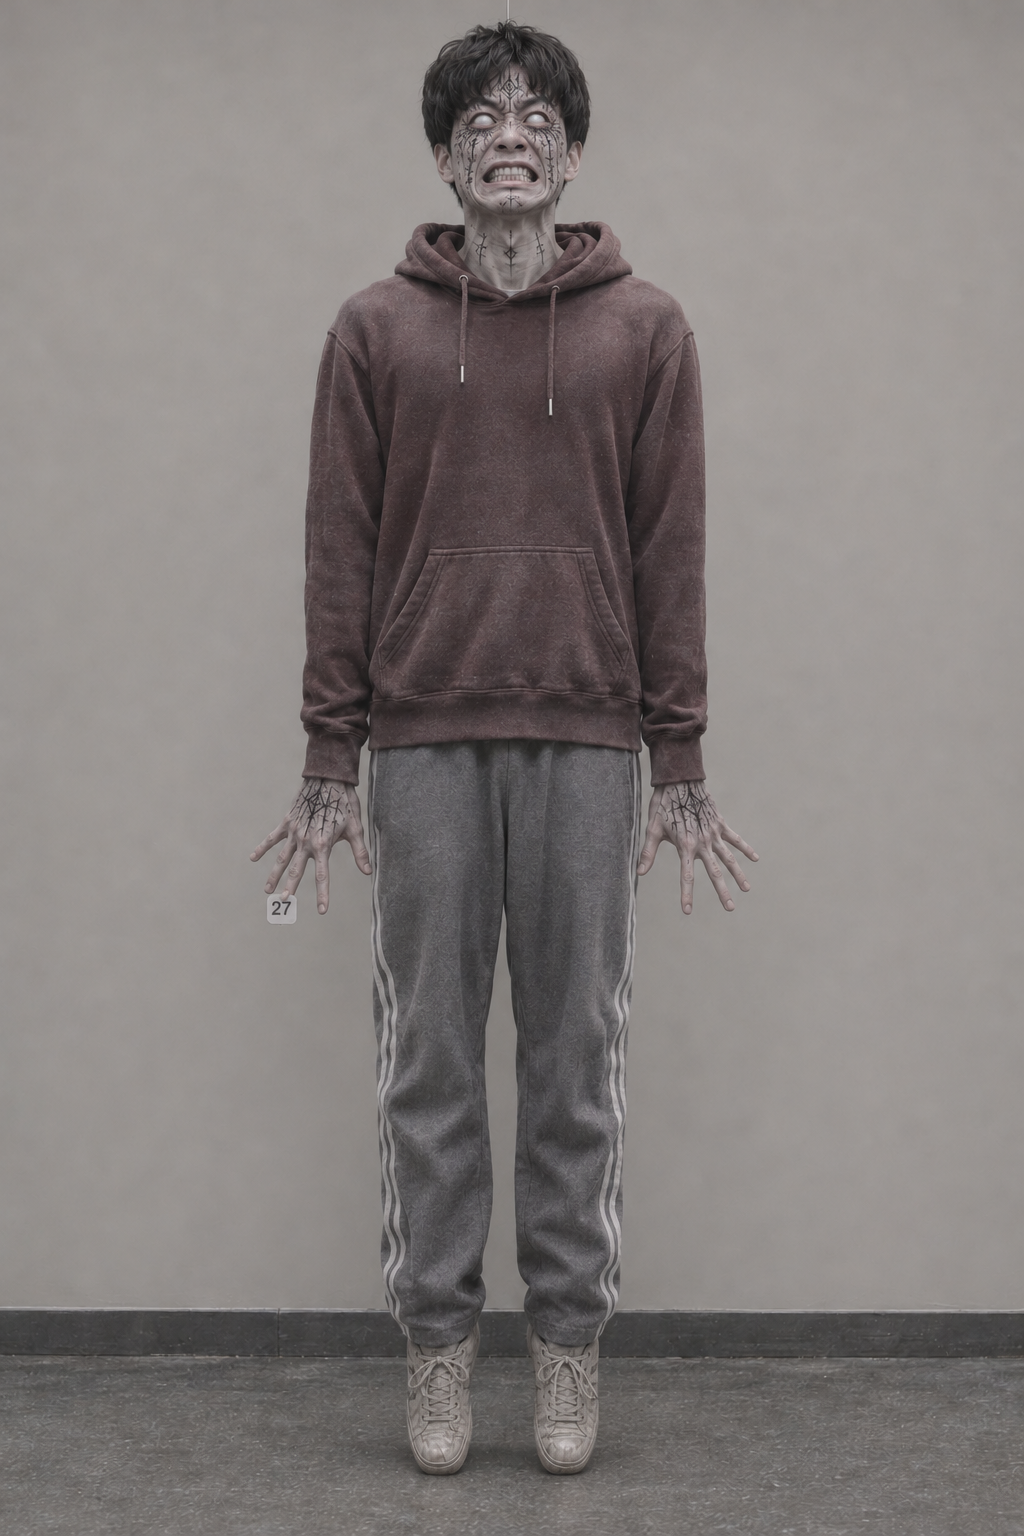
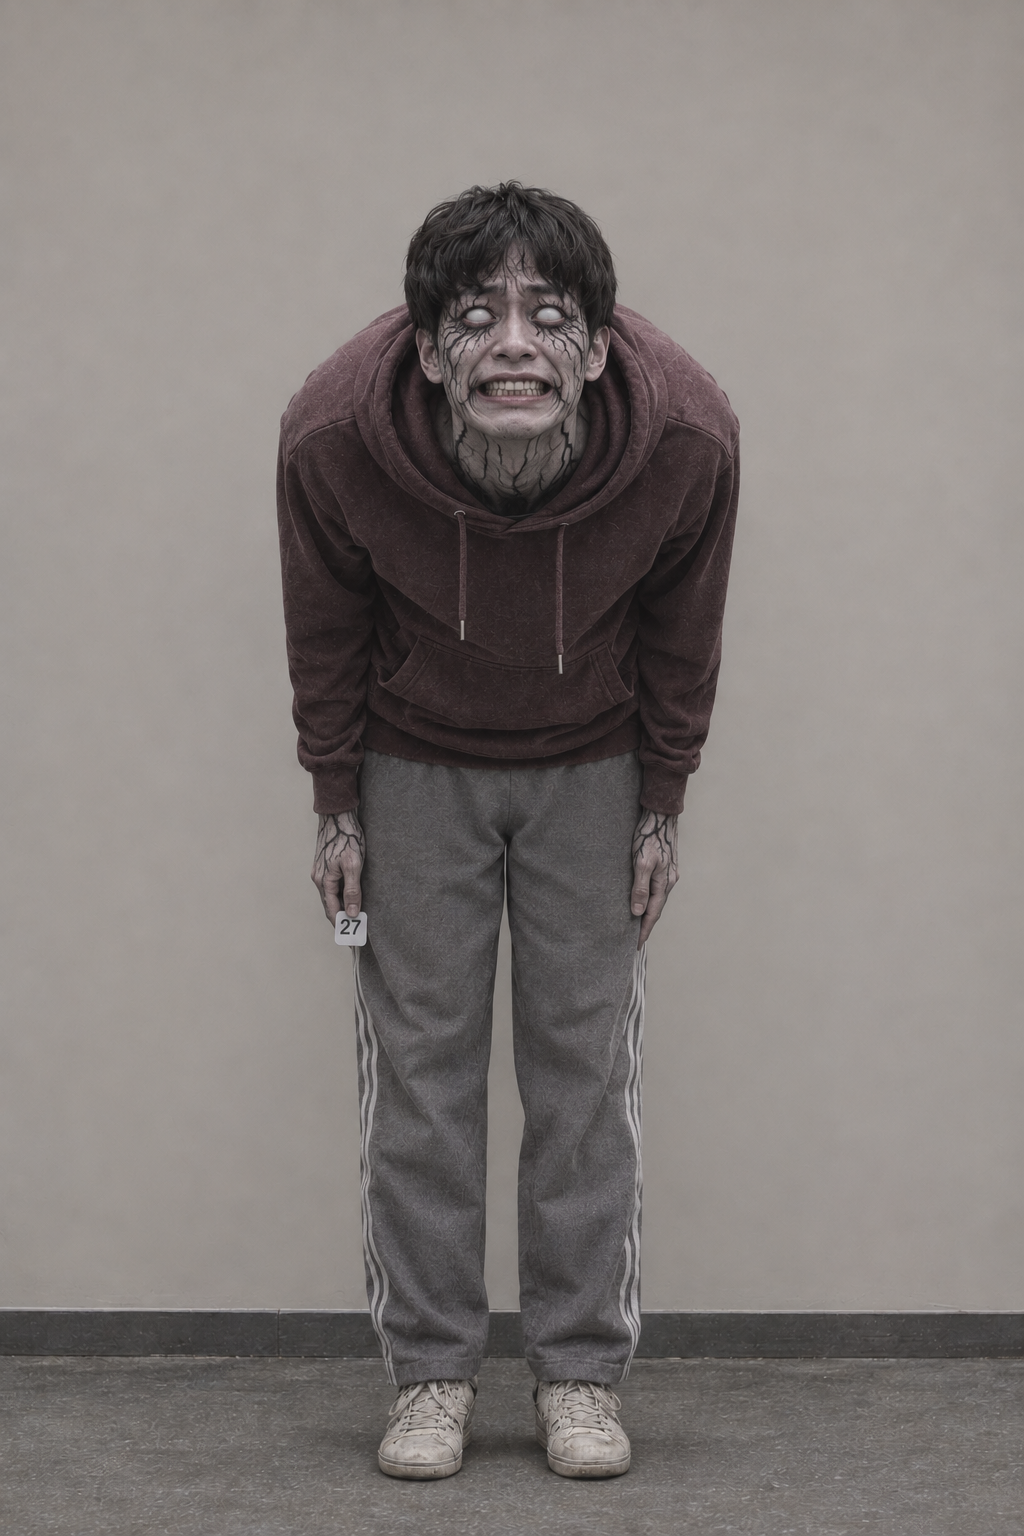
規格／影片素材：等號者幽靈版全身改用黑色血管與詭異姿態新定稿
- 角色設定_等號者_{左,中,右}_幽靈_v1.png 換成使用者選定的第四批：左 04、中 02、右 03
- 10-23 幽靈版基準改寫：臉與脖子布滿黑色血管；左後仰按牌尖叫、中直角鞠躬抬臉硬笑、右跪姿後折倒臉
- 白眼、無殘影、脖子正常的規則不變

Changed region(s): [[0.25, 0.0, 0.75, 0.9688]]

diff --git a/docs/10_製作規格/10-23_製作規格_影片素材設定.md b/docs/10_製作規格/10-23_製作規格_影片素材設定.md
@@ -143,7 +143,7 @@
 - **素材提示詞：**大廳塑膠等候椅上的三個年輕人（兩女一男，約十九到二十六歲），高矮胖瘦各不相同，穿的是自己平常的便服，像日常途中突然被帶進園區：左邊的女生是灰色針織開襟衫、白 T、淺色寬牛仔褲；中間的男生是暗紅帽 T、側邊白條紋的灰運動褲；右邊的女生是深藍大學 T、黑色寬褲。衣服乾淨但有一天下來的皺褶，色調低飽和。每人手裡都有一張塑膠號牌。第一人坐得最直；第二人縮肩、抿著嘴，嘴角被迫往兩側提起；第三人望著封住的出口，一手把號牌壓在膝上、一手扣住椅緣。異變只在頸部：衣領裡有一道細長的折角，頸影比肩膀多折一節，慢半拍才接回頭影。臉都沒有清楚五官（低垂、背光或模糊）。
 - **不要出現：**腐爛、傷口或血跡；三人長得一樣或穿同一套衣服；制服、戲服或破舊二手衣
 - **內部視覺基準：**[三人合照](../../assets/07_視聽與介面/assets/角色設定_等號者_合照_v1.png)是三人並坐、號牌與姿態的基準；左、中、右三人各有[左正面頭像](../../assets/07_視聽與介面/assets/角色設定_等號者_左_頭像_v1.png)與[左正面全身](../../assets/07_視聽與介面/assets/角色設定_等號者_左_全身_v1.png)、[中正面頭像](../../assets/07_視聽與介面/assets/角色設定_等號者_中_頭像_v1.png)與[中正面全身](../../assets/07_視聽與介面/assets/角色設定_等號者_中_全身_v1.png)、[右正面頭像](../../assets/07_視聽與介面/assets/角色設定_等號者_右_頭像_v1.png)與[右正面全身](../../assets/07_視聽與介面/assets/角色設定_等號者_右_全身_v1.png)，作為臉部與服裝基準。七張都是未異變的正常人形，只供內部對臉與定裝，不進遊戲畫面；遊戲內仍照本段不交清楚五官，頸部異變另依來源段製作。
-- **幽靈版內部視覺基準：**[左幽靈全身](../../assets/07_視聽與介面/assets/角色設定_等號者_左_幽靈_v1.png)、[中幽靈全身](../../assets/07_視聽與介面/assets/角色設定_等號者_中_幽靈_v1.png)、[右幽靈全身](../../assets/07_視聽與介面/assets/角色設定_等號者_右_幽靈_v1.png)以三人正面全身定裝為底，人、衣著與 28／27／25 號牌不變，是怨靈外觀的姿態與表情基準：膚色灰白、衣色褪淡；雙眼全白、沒有瞳孔也不發光；臉上滿布從眼眶往臉頰、額頭與下巴蔓延的黑色抽象咒文，像墨從皮下滲出，手背與頸側也有少量，不是可讀文字或刺青；表情是凍住的驚恐。左邊的女生懸空踮著腳、全身直挺像被吊起，雙臂垂直、號牌捏在指間，張口無聲尖叫；中間的男生同樣離地懸著，雙臂僵直、十指張開，咬牙硬撐出咧嘴笑；右邊的女生雙臂平伸到肩高像稻草人、手腕下垂，號牌捏在一手，雙腳外張，嘴唇發顫。單次成像，沒有殘影、半透明或重影；脖子保持正常，不扭曲、不拉長，衣領內頸影慢半拍只在動畫演出中呈現。仍不出現腐爛、傷口或血跡。
+- **幽靈版內部視覺基準：**[左幽靈全身](../../assets/07_視聽與介面/assets/角色設定_等號者_左_幽靈_v1.png)、[中幽靈全身](../../assets/07_視聽與介面/assets/角色設定_等號者_中_幽靈_v1.png)、[右幽靈全身](../../assets/07_視聽與介面/assets/角色設定_等號者_右_幽靈_v1.png)以三人正面全身定裝為底，人、衣著與 28／27／25 號牌不變，是怨靈外觀的姿態與表情基準：膚色灰白、衣色褪淡；雙眼全白、沒有瞳孔也不發光；臉上與脖子布滿從白眼眼眶和嘴角往外爬的黑色血管，蔓延到臉頰、額頭與下巴，手背也有，像墨從皮下滲出，不流血、不破皮；表情是凍住的驚恐。左邊的女生站得直挺、上身微微後仰，一手把 28 號牌按在胸口，頭往後仰，張口無聲尖叫；中間的男生直角彎腰像僵硬的鞠躬，雙臂垂直貼著身側、27 號牌捏在指間，臉卻抬起來盯著人，咬牙硬撐出咧嘴笑；右邊的女生跪著，上身整個往後折，倒過來的臉從胸前看著人、張著嘴，雙手垂在身側，25 號牌貼在膝上。單次成像，沒有殘影、半透明或重影；脖子保持正常，不扭曲、不拉長，衣領內頸影慢半拍只在動畫演出中呈現。仍不出現腐爛、傷口或血跡。
 - **來源：**[昆蟲化分配：E-01 等號者](../09_劇本/09-15_正式劇本_共用附錄.md#h-0412-140)
 
 <a id="va-receptionist"></a>
